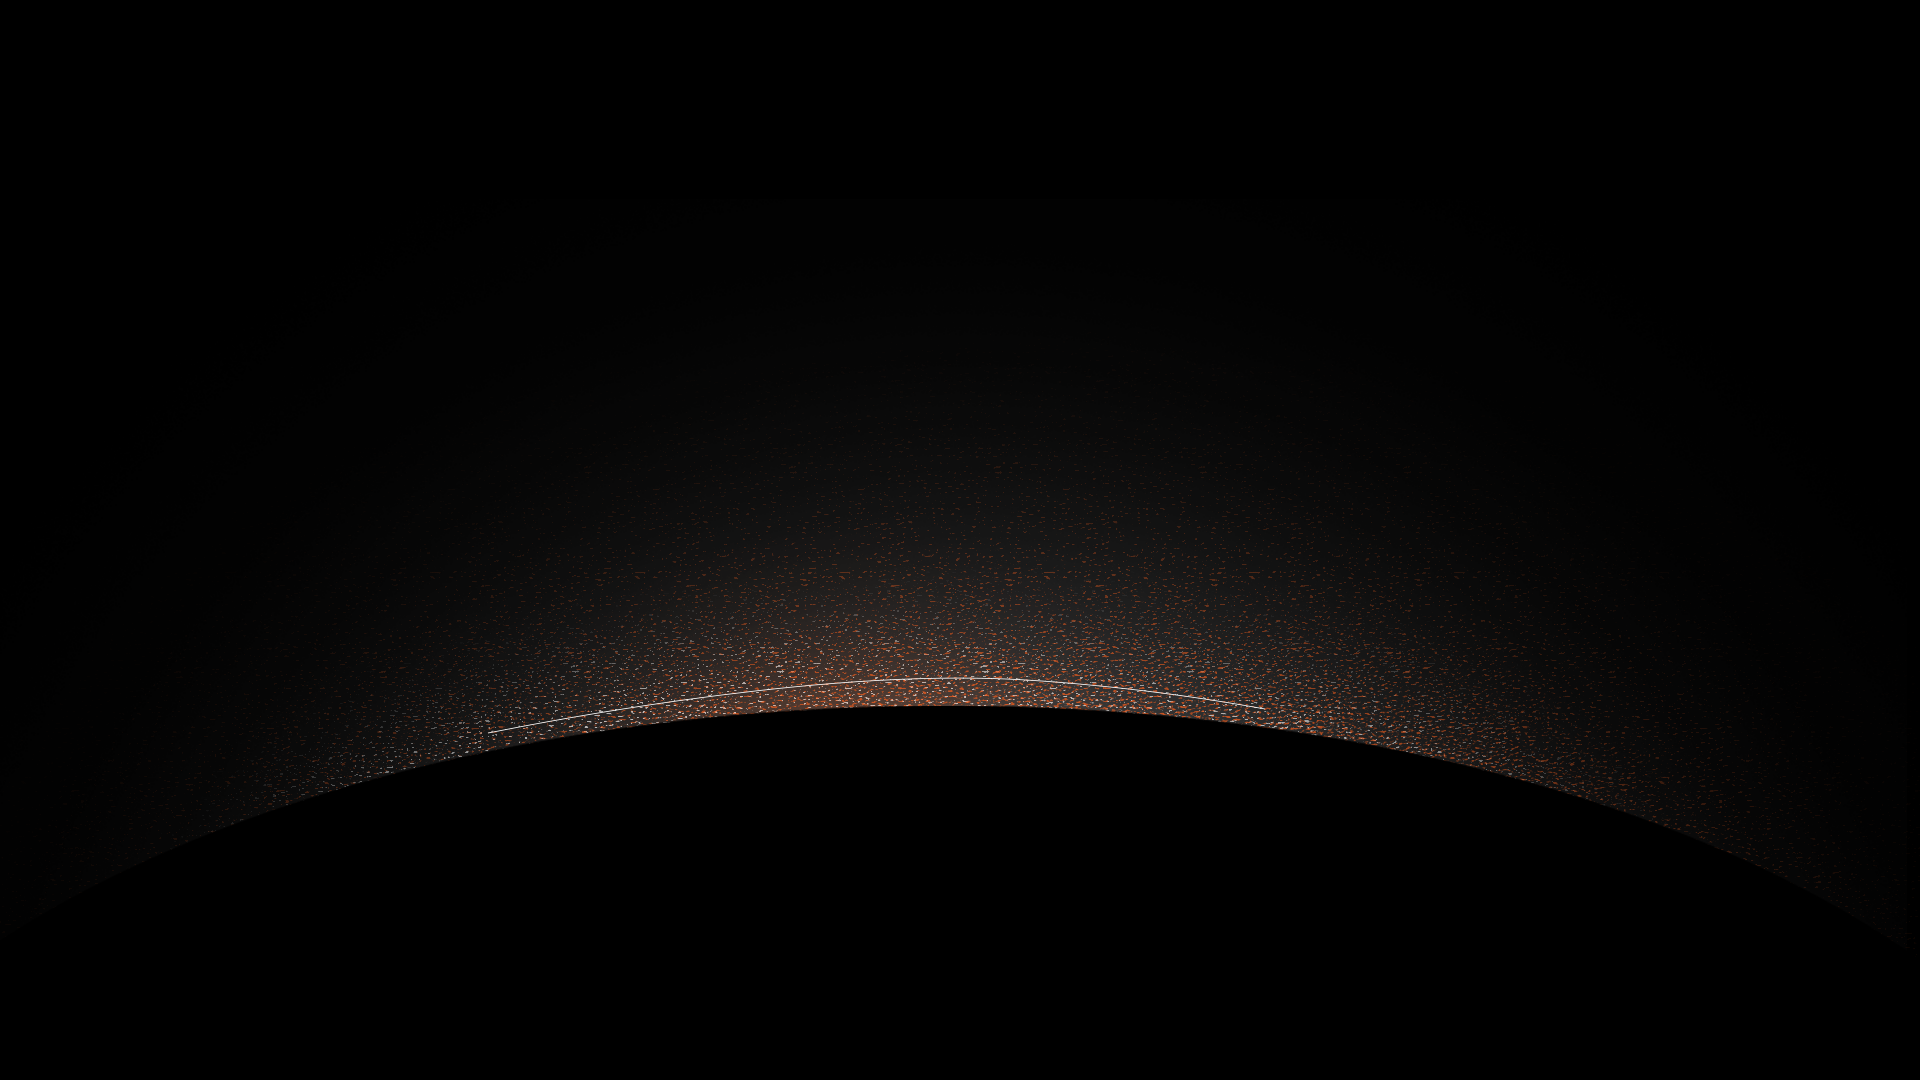
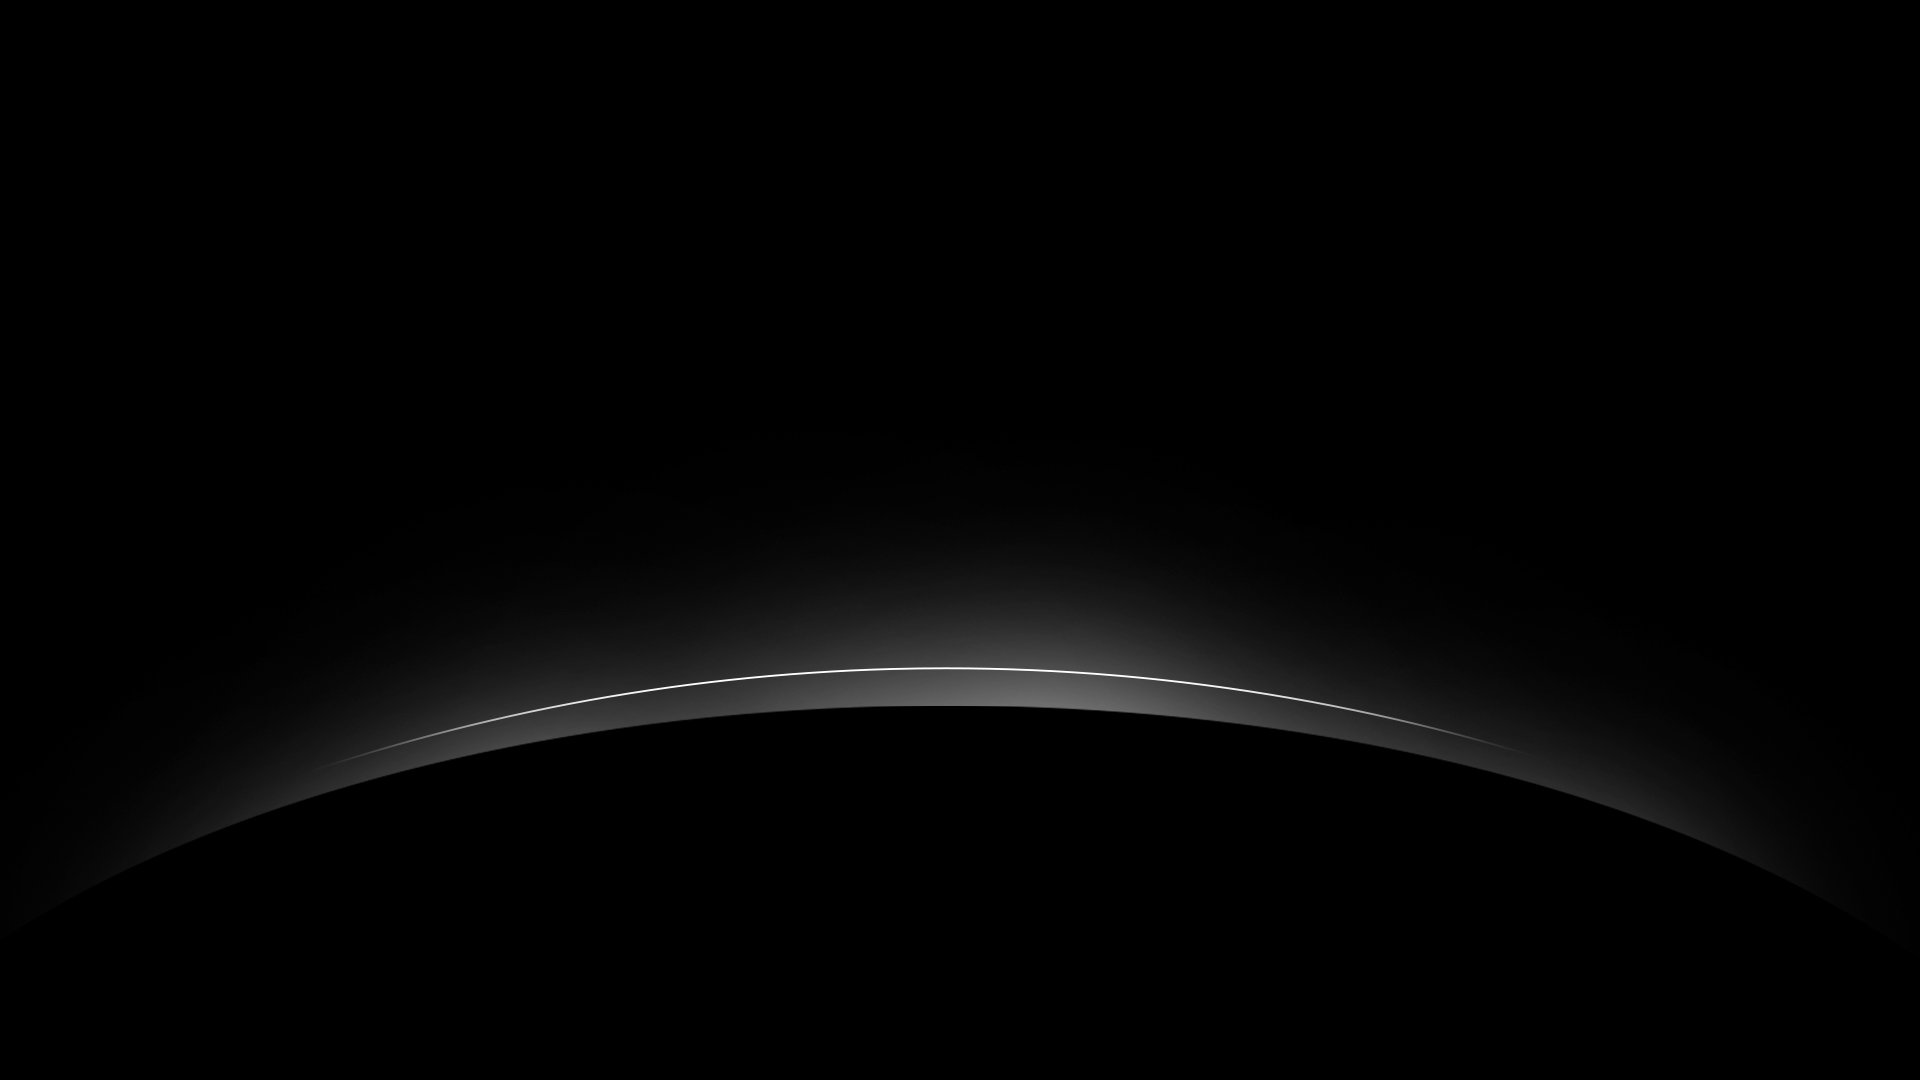
Stars affect and majority of hero complete also everything is responsive

Changed region(s): [[0.1562, 0.55, 0.8125, 0.7333], [0.8125, 0.7333, 0.8438, 0.7639]]

diff --git a/qbl-web-project/css/index.css b/qbl-web-project/css/index.css
@@ -5,13 +5,17 @@
   /* 2. Remove default margin */
   * {
     margin: 0;
+    padding: 0;
+    box-sizing: border-box;
   }
   body {
     /* 3. Add accessible line-height */
     line-height: 1.5;
     /* 4. Improve text rendering */
     -webkit-font-smoothing: antialiased;
-    background-color: #000;
+    background-color: #000000;
+    overflow: hidden;
+    
   }
   /* 5. Improve media defaults */
   img, picture, video, canvas, svg {
@@ -43,6 +47,10 @@
   
   a{
     text-decoration: none;
+  }
+
+  html{
+    font-size: 16px;
   }
   /*
   Nav Section
@@ -142,11 +150,12 @@ li a{
 }
 
 .hamburger .bar {
-    width: 100%;
-    height: 4px;
-    background-color: #fff;
-    
+  width: 100%;
+  height: 4px;
+  background-color: #fff; /* Ensure the bars are white */
+  border-radius: 4px; /* Optional: Add rounded corners to the bars */
 }
+
 
 .menu_items.active {
     display: block; /* Show the menu when the hamburger is clicked */
@@ -171,7 +180,7 @@ li a{
     .menu_items ul {
         flex-direction: column;
         align-items: center;
-        margin-left: 15px;
+        margin-left: 40px;
     }
 
     .hamburger {
@@ -269,3 +278,167 @@ li a{
     box-shadow: 0 0 10px 3px rgba(0, 0, 255, 0.7); /* Glow effect around the border */
 }
 
+/*Hero Section*/
+
+#hero {
+  display: flex;
+  justify-content: center;
+  align-items: center;
+  padding-left: 50px;
+  padding-right: 50px;
+  height: 100vh;
+  position: absolute;
+  left: 0;
+  width: 100%;
+  height: 100%;
+  animation: animateBg 50% linear infinite ;
+}
+@keyframes animateBg {
+  0%, 100% {
+    transform: scale(1);
+  }
+  50% {
+    transform: scale(1.2);
+  }
+}
+
+span.star {
+  position: absolute; /* Use absolute position for accurate placement */
+  top: 50%;
+  left: 50%;
+  width: 4px;
+  height: 4px;
+  background: #fff;
+  border-radius: 50%;
+  box-shadow: 0 0 0 4px rgba(255, 255, 225, 0.1),
+              0 0 0 8px rgba(255, 255, 255, 0.1),
+              0 0 20px rgba(255, 255, 255, 1);
+  animation: animate 3s linear infinite;
+}
+
+span.star::before {
+  content: '';
+  position: absolute;
+  top: 50%;
+  transform: translateY(-50%);
+  width: 300px;
+  height: 1px;
+  background: linear-gradient(90deg, #fff, transparent);
+}
+
+@keyframes animate {
+  0% {
+    transform: rotate(315deg) translateX(0); /* Starting point */
+    opacity: 1;
+  }
+  70% {
+    opacity: 1;
+  }
+  100% {
+    transform: rotate(315deg) translateX(-1000px); /* Move forward to the right and slightly downward */
+    opacity: 0;
+  }
+}
+
+/* Specific positioning for each shooting star */
+span.star:nth-child(1) {
+  top: 0;
+  left: 5%; /* Use percentage to space it out more evenly */
+  animation-delay: 0s;
+  animation-duration: 1s;
+}
+
+span.star:nth-child(2) {
+  top: 0;
+  left: 20%; /* Adjust to move it further to the right */
+  animation-delay: 0.2s;
+  animation-duration: 3s;
+}
+
+span.star:nth-child(3) {
+  top: 20%;
+  left: 40%; /* Spread out more */
+  animation-delay: 0.4s;
+  animation-duration: 3s;
+}
+
+span.star:nth-child(4) {
+  top: 40%;
+  left: 60%; /* Spread further across the screen */
+  animation-delay: 0.8s;
+  animation-duration: 2.5s;
+}
+
+span.star:nth-child(5) {
+  top: 60%;
+  left: 80%; /* Further out */
+  animation-delay: 0.8s;
+  animation-duration: 2.5s;
+}
+
+span.star:nth-child(6) {
+  top: 80%;
+  left: 10%; /* Starting to vary the top positioning as well */
+  animation-delay: 1s;
+  animation-duration: 3s;
+}
+
+span.star:nth-child(7) {
+  top: 70%;
+  left: 30%; /* Different positioning for variety */
+  animation-delay: 1.2s;
+  animation-duration: 1.75s;
+}
+
+span.star:nth-child(8) {
+  top: 90%;
+  left: 50%; /* Spread across bottom half */
+  animation-delay: 1.4s;
+  animation-duration: 1.25s;
+}
+
+.hero_content {
+  text-align: center; /* Centers text horizontally inside .hero_content */
+  
+}
+
+.hero_content button {
+  display: inline-block; /*Centers button within parent block/grid*/
+  font-size: 1rem;
+}
+
+.hero_content h2{
+  font-size: 6.8535rem;
+  font-family: "polymath", sans-serif;
+  font-weight: 600;
+  font-style: normal;
+  line-height: 120px;
+}
+
+.hero_content h1{
+  font-size: 1rem;
+  font-family: "polymath", sans-serif;
+  font-weight: 400;
+  font-style: normal;
+  line-height: 120px;
+}
+
+
+@media only screen and (max-width: 600px ){
+  .hero_content h2{
+    font-size: 3.4rem;
+    font-family: "polymath", sans-serif;
+    font-weight: 600;
+    font-style: normal;
+    line-height: 60px;
+  }
+
+  .hero_content h1{
+    font-size: 1rem;
+    font-family: "polymath", sans-serif;
+    font-weight: 400;
+    font-style: normal;
+    line-height: 30px;
+    padding-top: 30px;
+  }
+}

diff --git a/index.html b/index.html
@@ -3,6 +3,7 @@
     <head>
         <link rel="icon" type="image/x-icon" href="./qbl-web-project/assets/Images/favicon.ico">
         <link rel="stylesheet" href="https://use.typekit.net/hmh1bvc.css">
+        <link rel="stylesheet" href="https://use.typekit.net/hmh1bvc.css">
         <link rel="stylesheet" href="./qbl-web-project/css/index.css">
         <meta charset="UTF-8">
         <meta name="viewport" content="width=device-width, initial-scale=1.0">
@@ -27,6 +28,21 @@
                 <span class="bar"></span>
             </div>
         </header>
+        <section id="hero">
+            <span class="star"></span>
+            <span class="star"></span>
+            <span class="star"></span>
+            <span class="star"></span>
+            <span class="star"></span>
+            <span class="star"></span>
+            <span class="star"></span>
+            <span class="star"></span>
+            <div class="hero_content">
+                <h2>Helping your business reach new heights</h2>
+                <h1>Expert branding and business solutions, designed for rapid growth. That’s QuickBrandLaunch</h1>
+                <a href="./contact_us.html"><button class="contact_btn">Work with us</button></a>
+            </div>
+        </section>
         <script src="./qbl-web-project/js/index.js"></script>
     </body>
 </html>

diff --git a/qbl-web-project/js/index.js b/qbl-web-project/js/index.js
@@ -22,3 +22,5 @@ const links = document.querySelectorAll('.menu_items ul li a');
                     link.classList.add('active');
                 }
             });
+
+
